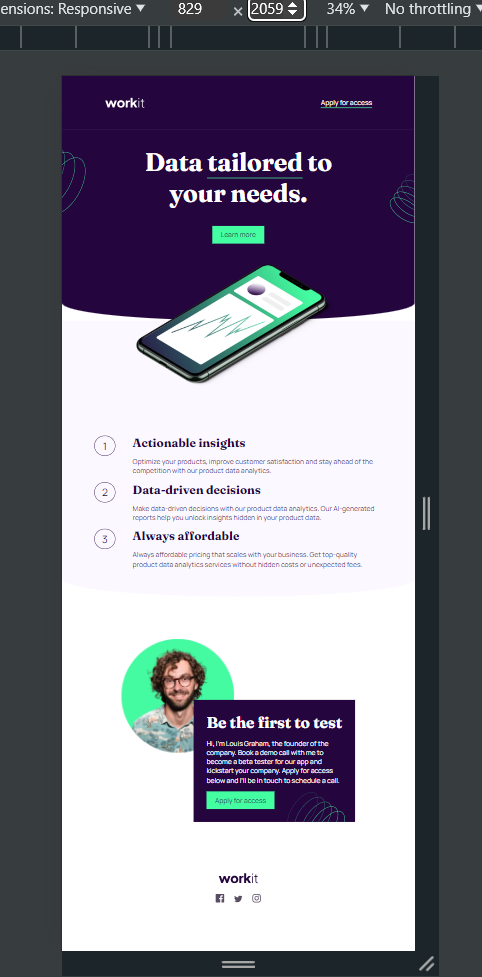
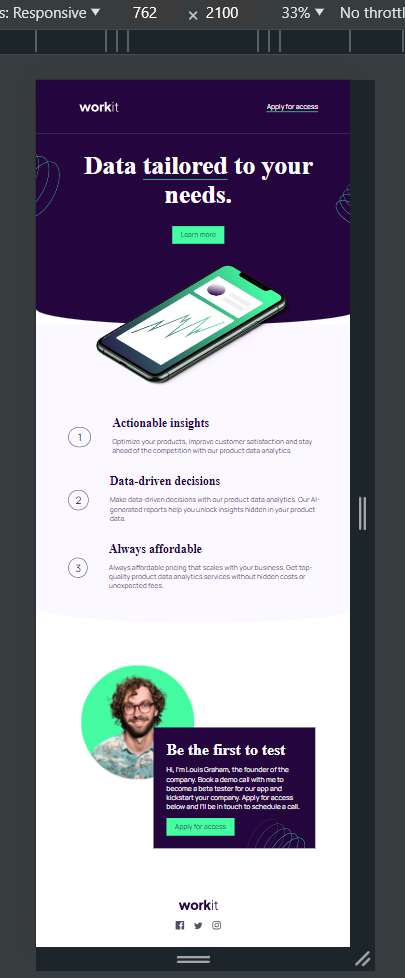
readme changes

diff --git a/client/style.css b/client/style.css
@@ -8,9 +8,6 @@
     --white: #FFFFFF
 }
 
-
-
-
 /*--- Repeating styles ---*/
 a {
     text-decoration: none;

diff --git a/README.md b/README.md
@@ -1,5 +1,7 @@
 #  Workit landing page - Frontend Mentor
 
+This was completed using HTML and CSS. I came across an issue with setting overflow to hidden on the header to stop the two swirls from widening the x-axis. However, this caused the hero image (mobile phone) to stop overflowing. The solution was to modify the HTML so that the hero image, comes last in the header div. Then, I set the main-header-content-container to overflow: hidden.
+
 #
 
 # The designs given
